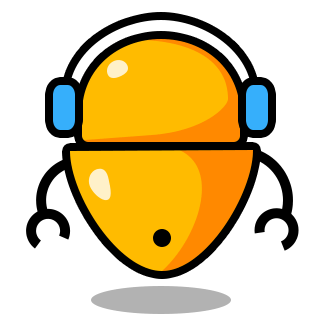
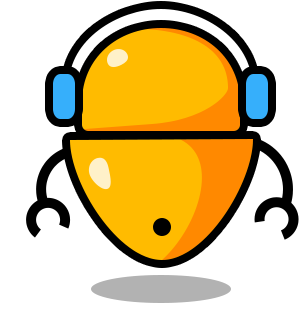
added the robot directions

diff --git a/Scripts/app/Site.js b/Scripts/app/Site.js
@@ -1,13 +1,15 @@
 document.addEventListener('keydown', function (event) {
+    var grassWidth = $(".grassTile").width();
     var marginTop = parseInt($(".robot").css("margin-top"));
     var left = parseInt($(".robot").css("left"));
+
     if (event.keyCode === 37) {
         // left
-        $(".robot").css("left", left - 350 + "px");
+        $(".robot").css("left", left - grassWidth + "px");
     }
     else if (event.keyCode === 39) {
         // right
-        $(".robot").css("left", left + 350 + "px");
+        $(".robot").css("left", left + grassWidth + "px");
     }
     else if (event.keyCode === 38) {
         // up

diff --git a/Content/app/Site.css b/Content/app/Site.css
@@ -26,7 +26,7 @@
     padding: 0;    
     height: 200px;
     margin-top: -210px;
-    background-image: url(../images/robot.png);
+    background-image: url(../images/robot_forward.png);
     background-repeat: no-repeat;
     background-position-x: 20%;
     background-size: contain;

diff --git a/index.html b/index.html
@@ -43,7 +43,7 @@
             </div>
         </div>
 
-        <div class="col-xs-4 robot" alt="" title="" src="Content/images/robot.png"></div>
+        <div class="col-xs-4 robot"></div>
     </div>
     <!--
     <footer class="container">
